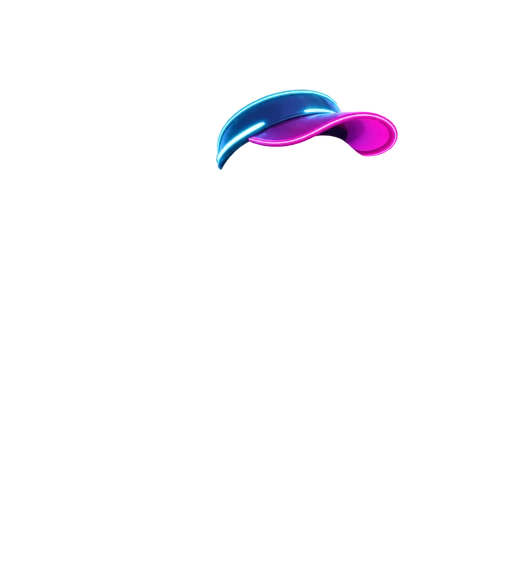
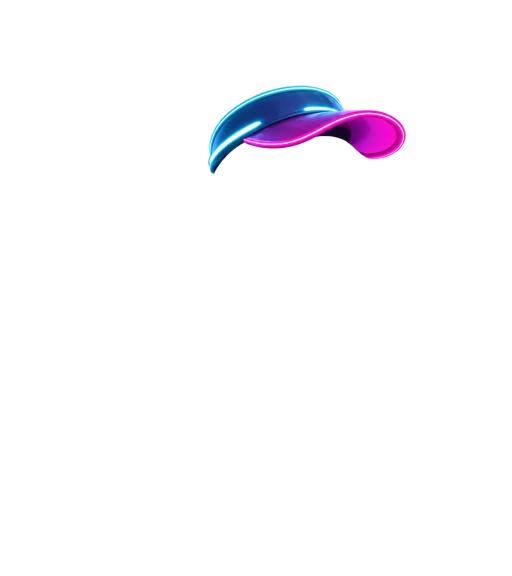
polish: enlarge all 18 hats for realistic head fit

Changed region(s): [[0.4062, 0.125, 0.8125, 0.3125]]

diff --git a/src/ui.tsx b/src/ui.tsx
@@ -123,7 +123,7 @@ export const PIGEON_SKIN_COLORS: Record<string, string> = {
   "iridescent-oil-slick": "#5e5a67", "skin-18": "#5e5a67", "18": "#5e5a67",
 };
 
-const ASSET_V = "?v=20";
+const ASSET_V = "?v=21";
 
 export function resolveSkinSrc(skin?: string | null): string {
   if (!skin || skin === "common" || skin === "default") {

diff --git a/scripts/build-pigeon-assets.py b/scripts/build-pigeon-assets.py
@@ -473,24 +473,24 @@ def extract_accessory_diff(
 # Используется расширенный холст 512x576 (64px запас сверху), чтобы высокие шапки были в натуральную величину и не обрезались
 HAT_HEADROOM = 64
 STANDALONE_HAT_FIT: dict[int, tuple[int, int, int]] = {
-    1: (190, 297, 110),  # Чёрная панама
-    2: (186, 308, 108),  # Жёлтая кепка
-    3: (150, 299, 90),   # Золотая корона
-    4: (212, 290, 168),  # Шапка-ушанка
-    5: (186, 306, 107),  # Красная бейсболка
-    6: (192, 276, 134),  # Красная повязка
-    7: (212, 290, 112),  # Шляпа волшебника
-    8: (184, 298, 108),  # Кусок пиццы
-    9: (164, 300, 108),  # Кроличьи ушки
-    10: (142, 300, 52),  # Золотой нимб
-    11: (182, 307, 106), # Неоновый козырёк
-    12: (178, 295, 115), # Красная шапка с помпоном
-    13: (184, 306, 107), # Кепка с пропеллером
-    14: (180, 298, 109), # Колпак повара
-    15: (206, 296, 109), # Пиратская треуголка
-    16: (194, 298, 112), # Зелёная панама-лягушка
-    17: (204, 294, 126), # Колпак шута
-    18: (200, 288, 154), # Шлем авиатора
+    1: (204, 297, 114),  # Чёрная панама
+    2: (202, 308, 112),  # Жёлтая кепка
+    3: (162, 299, 92),   # Золотая корона
+    4: (224, 290, 174),  # Шапка-ушанка
+    5: (202, 306, 111),  # Красная бейсболка
+    6: (204, 276, 138),  # Красная повязка
+    7: (226, 290, 116),  # Шляпа волшебника
+    8: (196, 298, 112),  # Кусок пиццы
+    9: (178, 300, 112),  # Кроличьи ушки
+    10: (152, 300, 54),  # Золотой нимб
+    11: (198, 307, 110), # Неоновый козырёк
+    12: (194, 295, 119), # Красная шапка с помпоном
+    13: (200, 306, 111), # Кепка с пропеллером
+    14: (194, 298, 113), # Колпак повара
+    15: (220, 296, 113), # Пиратская треуголка
+    16: (210, 298, 116), # Зелёная панама-лягушка
+    17: (216, 294, 130), # Колпак шута
+    18: (212, 288, 160), # Шлем авиатора
 }
 
 
